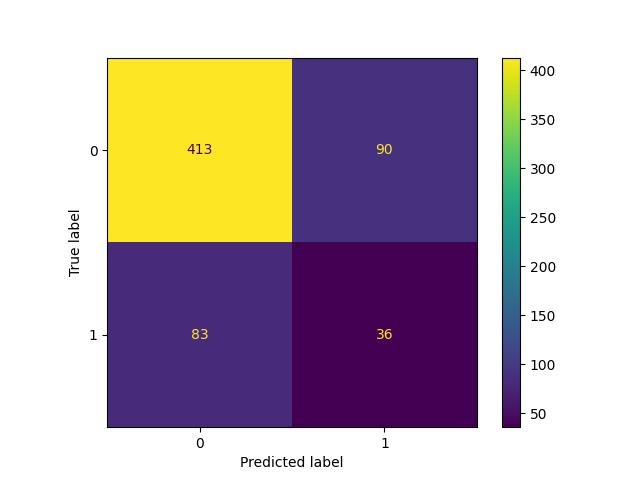
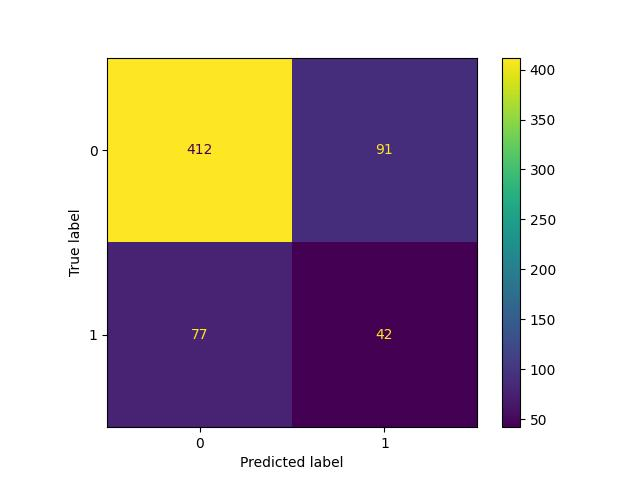
Combined roc and confusion matrices added

diff --git a/main.py b/main.py
@@ -1,3 +1,4 @@
+from cProfile import label
 import numpy as np
 import pandas as pd
 from feature_selection import select_features
@@ -27,6 +28,10 @@ idx_to_name = {
 
 def br():
     print("#"*85)
+    print("\n")
+
+def hr():
+    print("-"*85)
 
 def plot_confusion_matrices(path, confusion, clf):
     for i in range(len(confusion)):
@@ -41,6 +46,34 @@ def plot_confusion_matrices(path, confusion, clf):
             os.makedirs(test_path)
         plt.savefig(f"{train_path}/{idx_to_name[i]}.jpg")
         plt.savefig(f"{test_path}/{idx_to_name[i]}.jpg")
+
+def plot_combined_confusion_matrices(name, confusion, clf):
+    path = "combined_confusion_matrix"
+    train_final_conf =[
+        [0, 0],
+        [0, 0]
+    ]
+    test_final_conf = [
+        [0, 0],
+        [0, 0]
+    ]
+    for i in range(len(confusion)):
+        train_final_conf += confusion[i][0]
+        test_final_conf += confusion[i][1]
+
+
+    ConfusionMatrixDisplay(confusion_matrix=train_final_conf, display_labels=clf[i].classes_).plot()
+    train_path = f"{path}/Train"
+    if not os.path.isdir(train_path):
+        os.makedirs(train_path)
+    plt.savefig(f"{train_path}/{name}.jpg")
+
+    ConfusionMatrixDisplay(confusion_matrix=test_final_conf, display_labels=clf[i].classes_).plot()
+    test_path = f"{path}/Test"
+    if not os.path.isdir(test_path):
+        os.makedirs(test_path)
+    plt.savefig(f"{test_path}/{name}.jpg")
+
 
 def plot_roc(path, roc):
     path = f"{path}/roc_curves/"
@@ -58,6 +91,27 @@ def plot_roc(path, roc):
         plt.xlabel("False Positive Rate")
         plt.ylabel("True Positive Rate")
         plt.savefig(f"{path}/{idx_to_name[i]}")
+
+def plot_combined_roc(name, roc):
+    path = f"combined_roc_curves/"
+    plt.figure()
+    if not os.path.isdir(path):
+        os.makedirs(path)
+    final_tpr = []
+    final_fpr = []
+    for i in range(len(roc)):
+ 
+        #Extract data from roc variable
+        fpr, tpr, thresh = roc[i]
+    
+        plt.plot(fpr, tpr, lw = 2, label = idx_to_name[i])
+        
+    #Generate and save plot
+    plt.plot([0, 1], [0, 1], linestyle='--', label='Baseline')
+    plt.legend()
+    plt.xlabel("False Positive Rate")
+    plt.ylabel("True Positive Rate")
+    plt.savefig(f"{path}/{name}")
 
 def run_classifier(classifier, input_columns, output_columns):
     clf = []
@@ -137,13 +191,16 @@ for clas, name in classifiers:
     dt = run_classifier(clas, selected_input_columns, selected_output_columns)
     path = f"visual_data/{name}"
     plot_confusion_matrices(path, dt["Confusion"], dt["Classifier"])
+    plot_combined_confusion_matrices(name, dt["Confusion"], dt["Classifier"])
     plot_roc(path, dt["ROC"])
+    plot_combined_roc(name, dt["ROC"])
 
     for i in range(len(dt["Accuracy"])):
         acc = dt["Accuracy"][i]
-        br()
+        hr()
         print(f"{idx_to_name[i]} -- \n\n")
         print(f"\nTrain Accuracy: {acc[0]} \n")
         print(f"Test Accuracy: {acc[1]}")
         print(f"\nPrecision: {acc[2]}")
         print(f"\nRecall: {acc[3]}")
+        

diff --git a/feature_selection.py b/feature_selection.py
@@ -4,5 +4,5 @@ def select_features(variables, mode="FirstSix"):
     if mode == "FirstSix":
         return variables.iloc[:, :6]
     elif mode == "VarianceThreshold":
-        selector = VarianceThreshold(threshold=(0.75 * (1 - 0.75)))
+        selector = VarianceThreshold(threshold=(0.9 * (1 - 0.9)))
         return selector.fit_transform(variables)

diff --git a/README.md b/README.md
@@ -1,1 +1,3 @@
 # Predict-Drug-Consumption
+
+Runs 4 basic classifiers (Decision Tree, Random Forest, Support Vector Machine and k-Nearest Neighbours) on the ["Drug Consumption" Dataset](https://archive-beta.ics.uci.edu/ml/datasets/drug+consumption+quantified). Generates Confusion Matrices and ROC Curves for each model.
